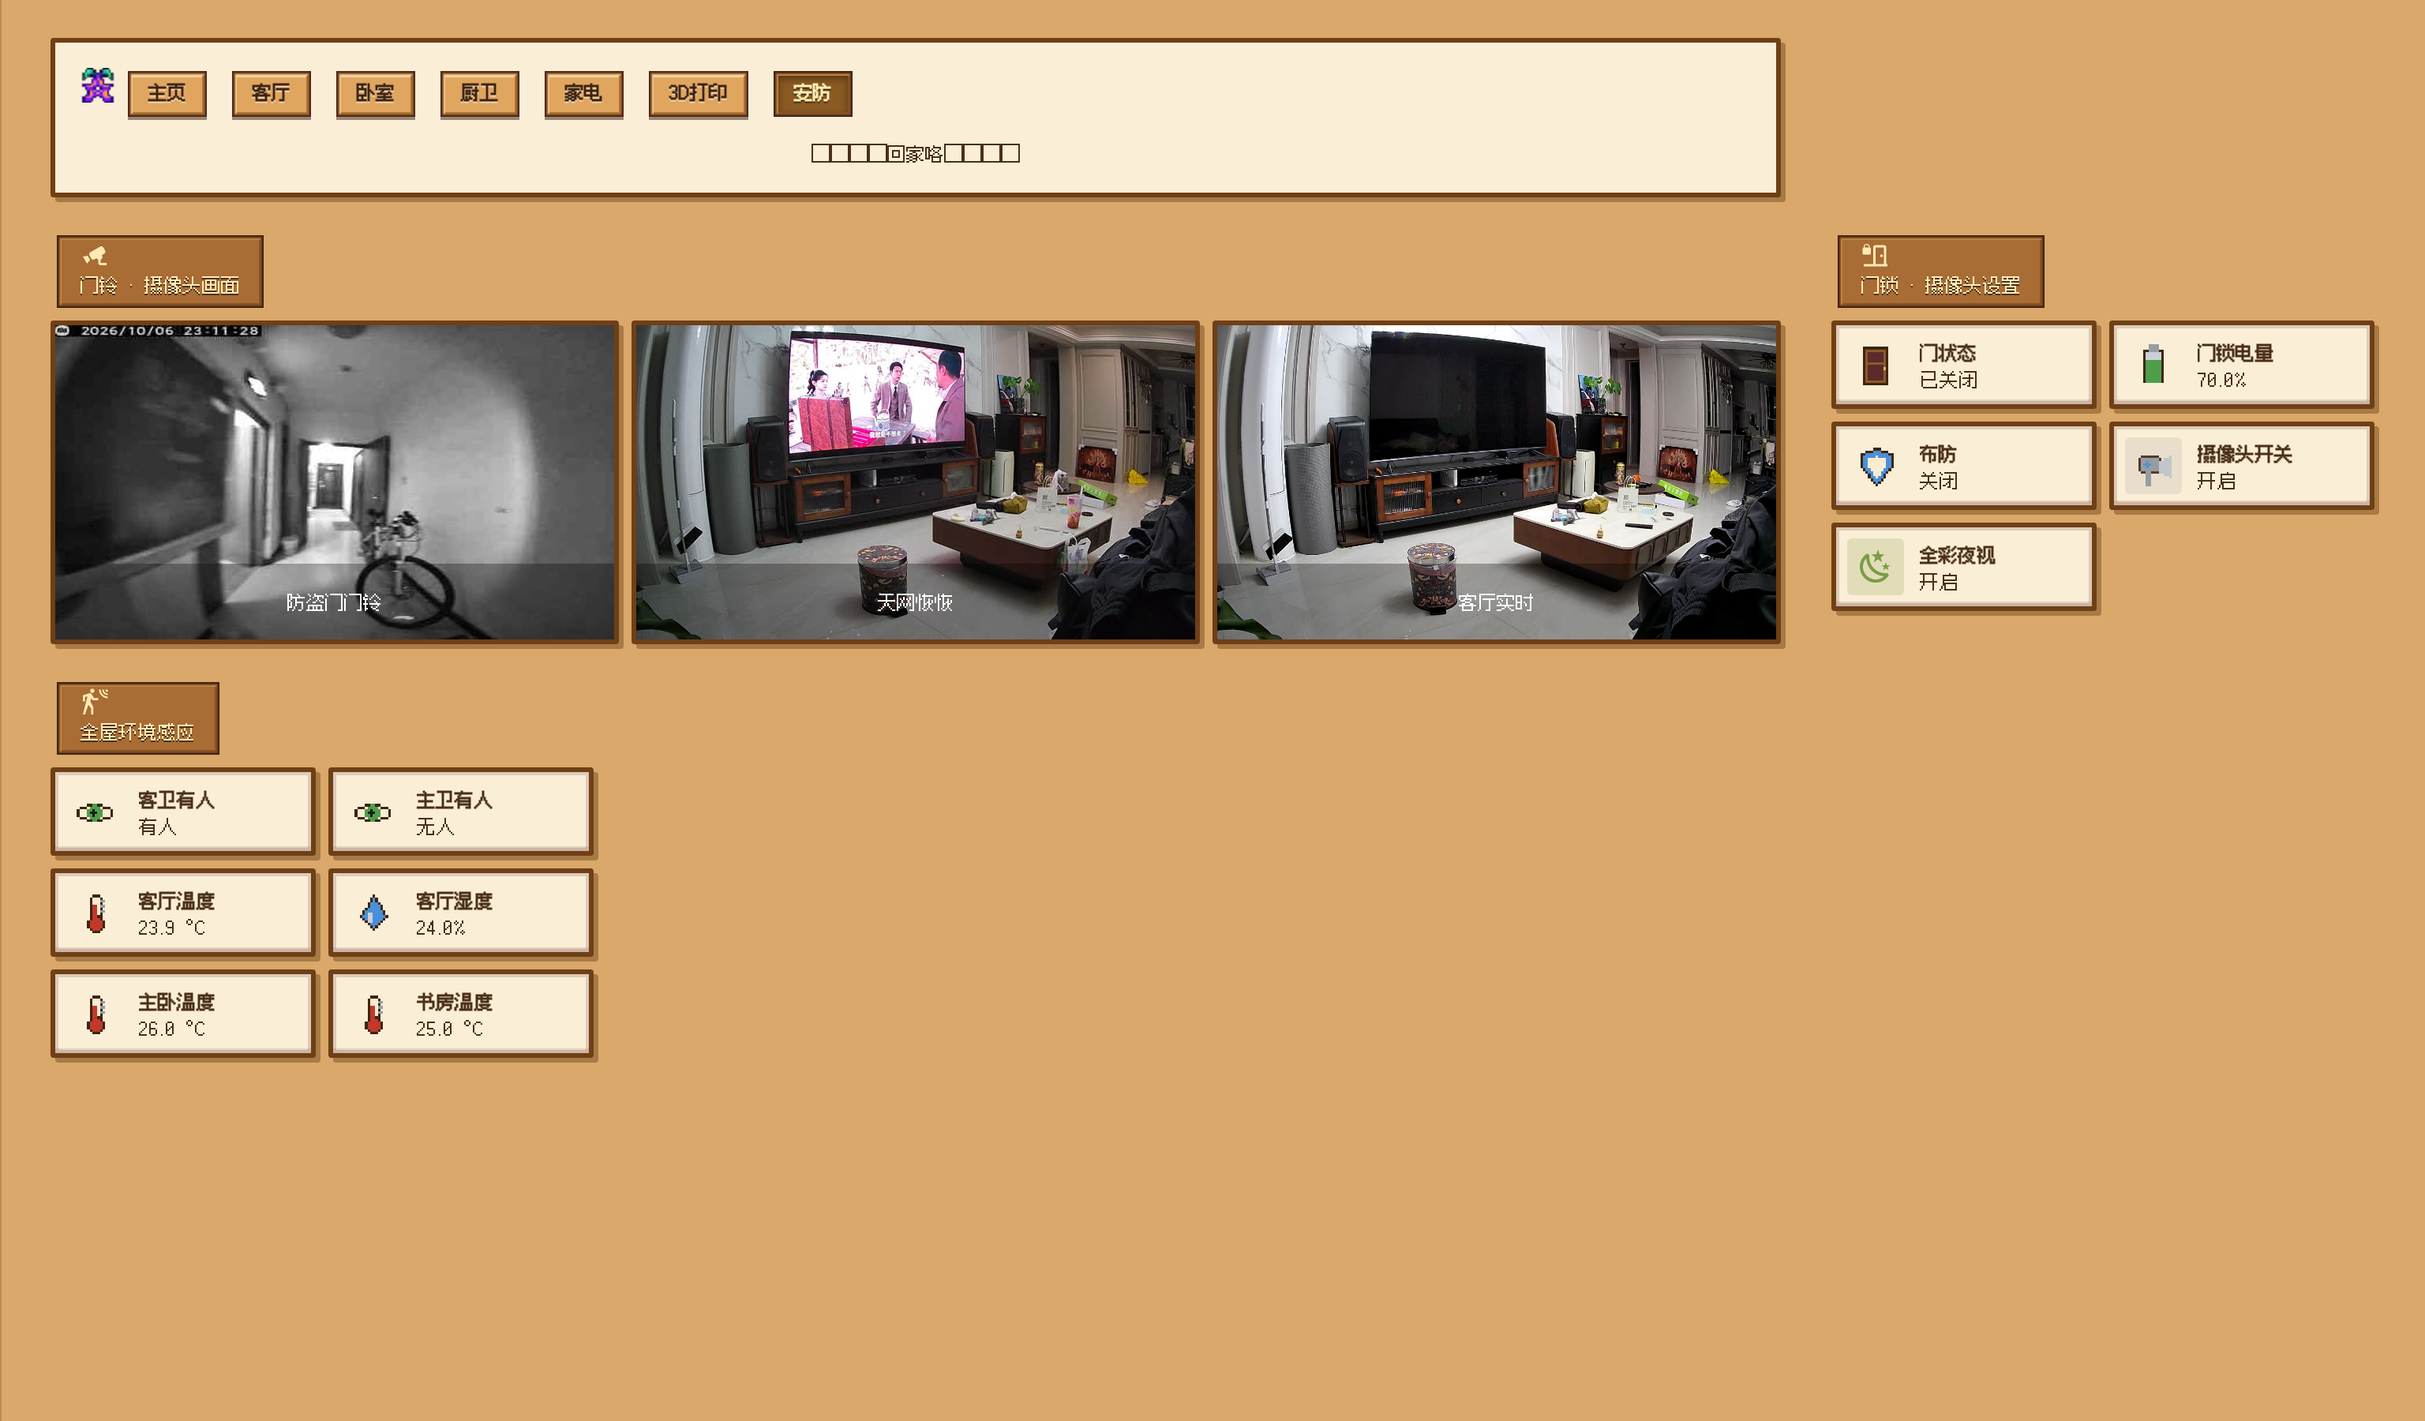
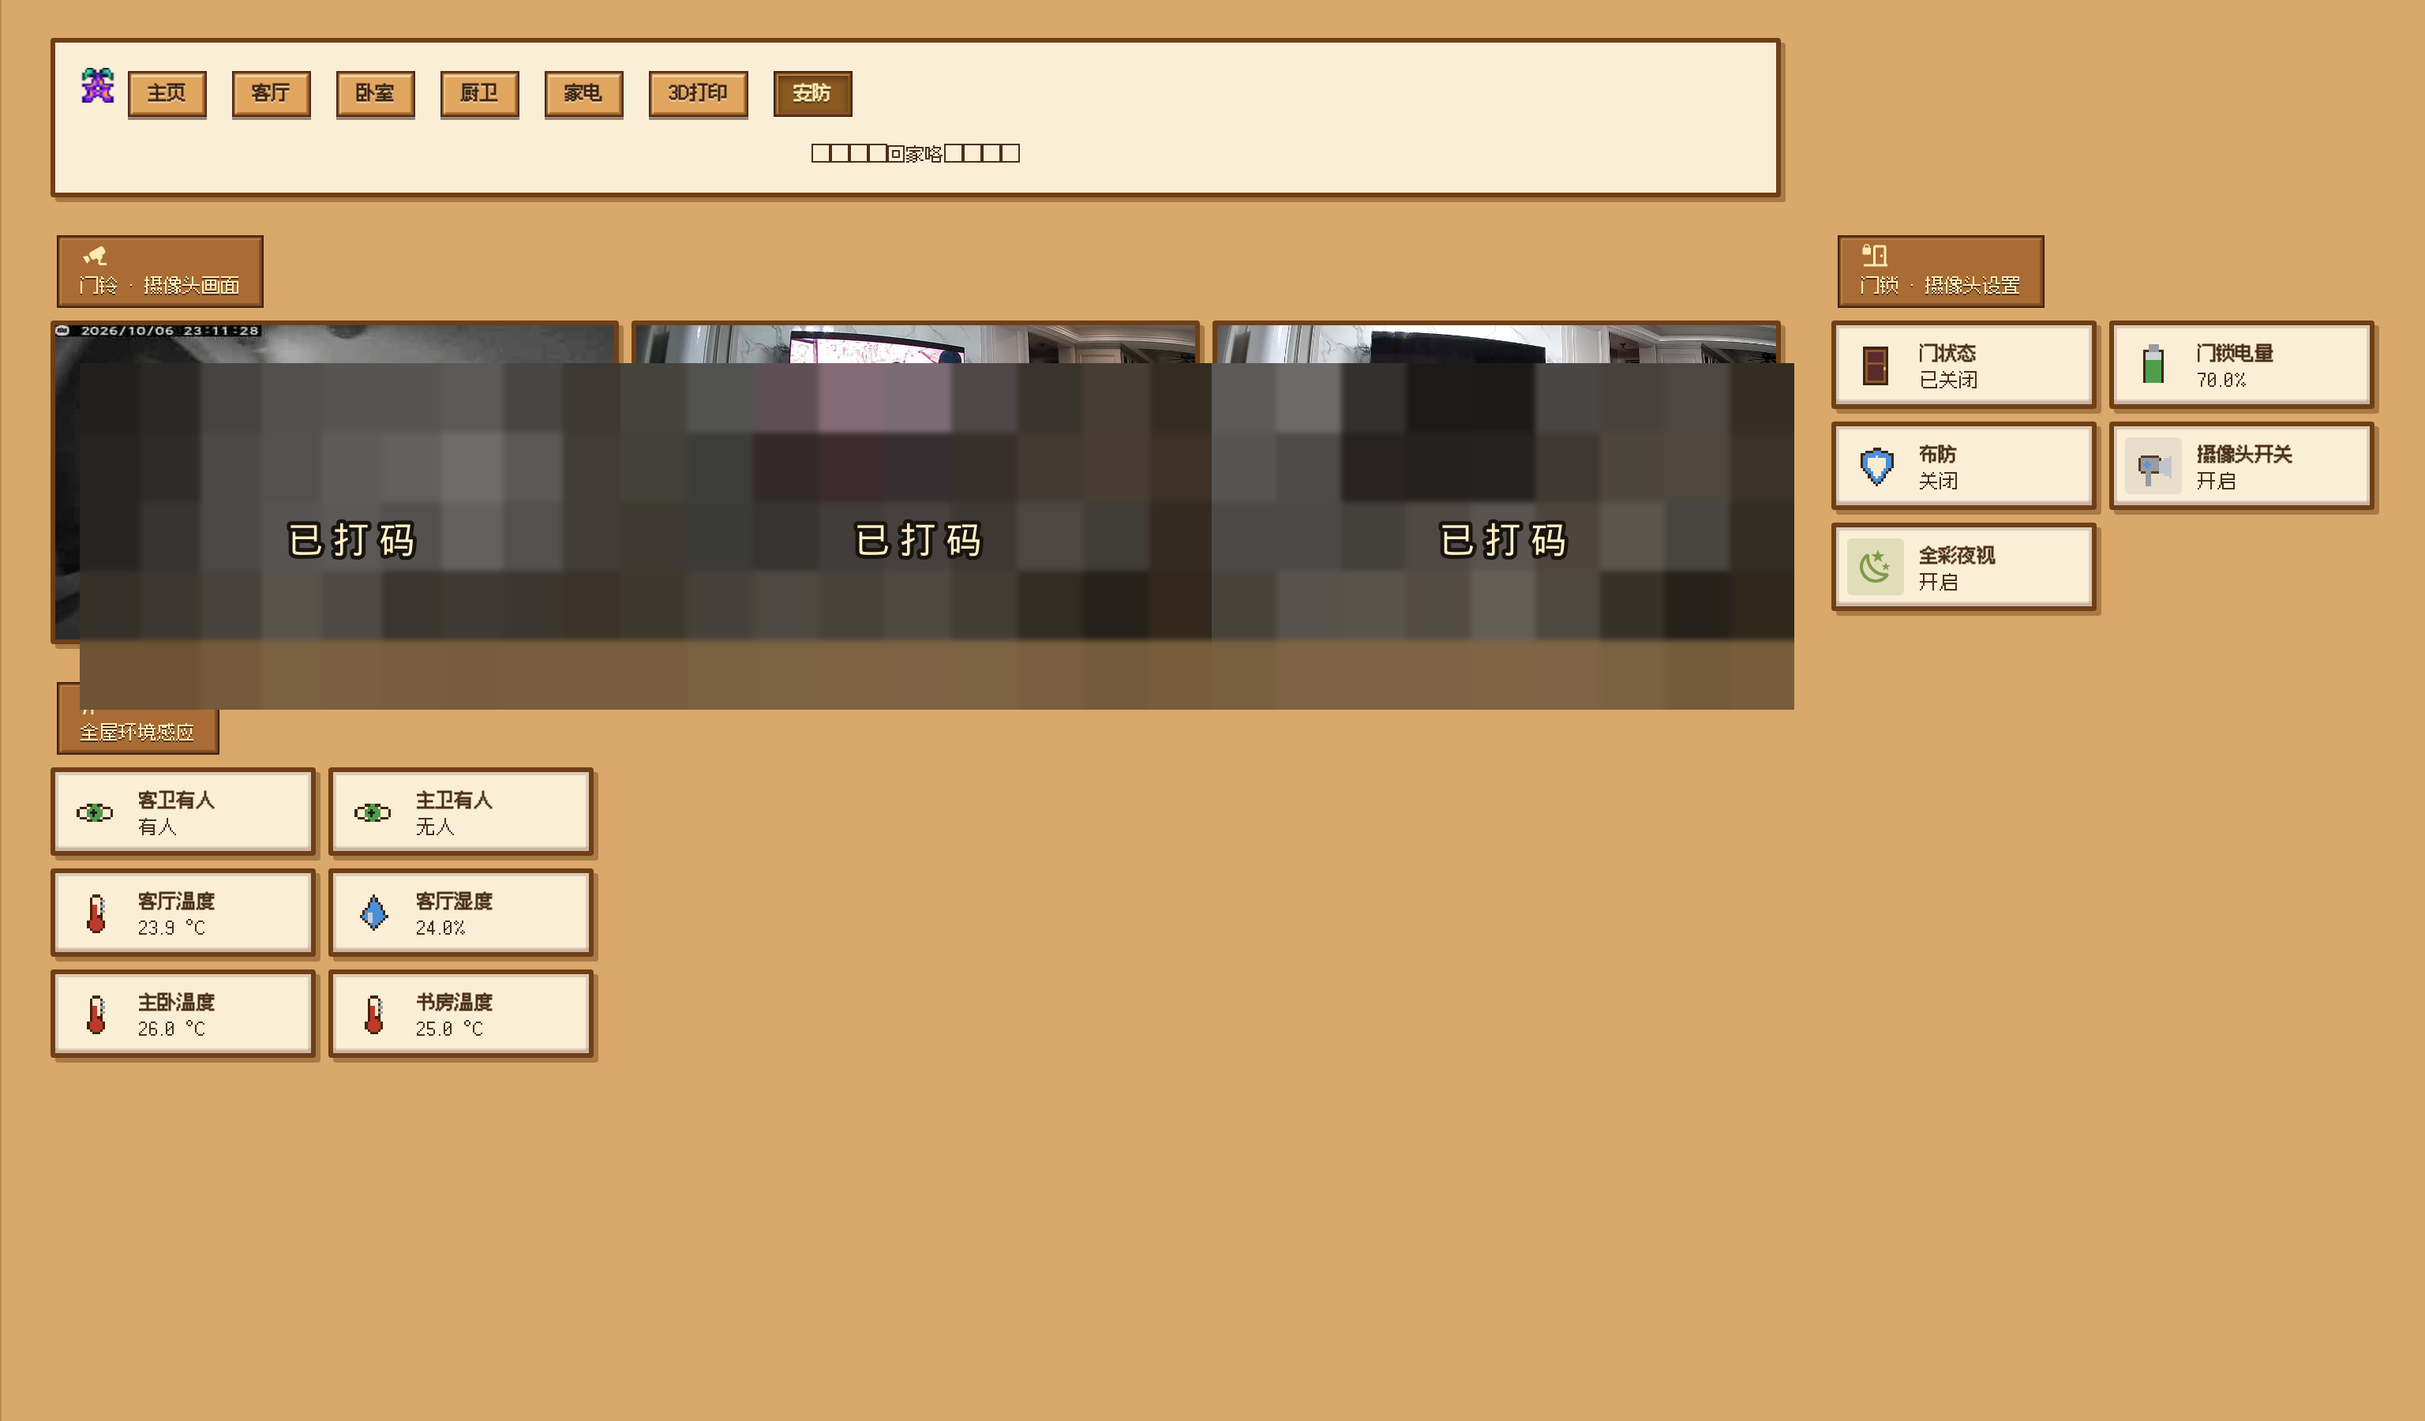
隐私打码：摄像头实时画面/门铃画面 + 扫地机户型图全部马赛克；脚本内设备序列号与默认用户名改占位符

Changed region(s): [[0.0312, 0.2489, 0.75, 0.4978]]

diff --git a/scripts/build_dashboard.py b/scripts/build_dashboard.py
@@ -69,7 +69,7 @@ DASH = {
             "sections": [
                 # 谷里今日（大时钟 + 时间/季节/天气 + 油价 + 运势 + 家里关键状态）
                 {"type": "grid", "column_span": 3, "cards": [
-                    {"type": "markdown", "content": "{% set m = now().month %}{% set se = 'hud_season_spring' if m in [3,4,5] else ('hud_season_summer' if m in [6,7,8] else ('hud_season_fall' if m in [9,10,11] else 'hud_season_winter')) %}{% set w = states('weather.forecast_jia') %}{% set ic = {'sunny':'hud_sun','clear-night':'hud_sun','partlycloudy':'hud_sun','cloudy':'hud_rain','rainy':'hud_rain','pouring':'hud_storm','lightning':'hud_storm','lightning-rainy':'hud_storm','snowy':'hud_snow','snowy-rainy':'hud_snow','fog':'hud_rain','hail':'hud_storm'} %}{% set zh = {'sunny':'晴天','clear-night':'晴夜','partlycloudy':'多云','cloudy':'阴天','rainy':'小雨','pouring':'大雨','lightning':'雷雨','lightning-rainy':'雷阵雨','snowy':'下雪','snowy-rainy':'雨夹雪','fog':'有雾','hail':'冰雹','windy':'大风','windy-variant':'大风','exceptional':'异常天气'} %}{% set luck = ((as_timestamp(now()) // 86400) | int) % 7 - 3 %}{% set lv = '非常幸运' if luck >= 3 else ('有点幸运' if luck >= 1 else ('平平常常' if luck == 0 else ('有点倒霉' if luck >= -2 else '非常倒霉'))) %}{% set sezh = {'hud_season_spring':'春','hud_season_summer':'夏','hud_season_fall':'秋','hud_season_winter':'冬'}[se] %}{% set wd = ['周一','周二','周三','周四','周五','周六','周日'][now().weekday()] %}{% set vsz = {'charging':'充电中','cleaning':'清扫中','docked':'已回充','idle':'待机','returning':'回程中','paused':'已暂停','error':'故障'} %}{% set psz = {'finish':'已完成','printing':'打印中','idle':'空闲','prepare':'准备中','failed':'失败','offline':'离线'} %}\n# {{ now().strftime('%H:%M') }}\n<img src='/local/stardew/img/hud_time.png'> {{ now().strftime('%m-%d') }} {{ wd }}　<img src='/local/stardew/img/{{ se }}.png?v=2'> {{ sezh }}季　<img src='/local/stardew/img/{{ ic.get(w, 'hud_sun') }}.png'> {{ zh.get(w, w) }}<br><img src='/local/stardew/img/hud_gold.png'> 95# <b>{{ states('sensor.he_bei_you_jie_95') }}</b>元　<img src='/local/stardew/img/hud_stardrop.png'> {{ lv }} {{ '★' * (luck + 3) }}<br><img src='/local/stardew/img/hud_health.png'> 门锁 {{ states('sensor.fang_dao_men_zhuang_tai') }} {{ states('sensor.loock_r2_559c_battery_level') | round | int }}% · 扫地机 {{ vsz.get(states('sensor.p20_ultra_plus_status'), states('sensor.p20_ultra_plus_status')) }} · 打印机 {{ psz.get(states('sensor.a1mini_0300aa5a0700264_print_status'), states('sensor.a1mini_0300aa5a0700264_print_status')) }}"},
+                    {"type": "markdown", "content": "{% set m = now().month %}{% set se = 'hud_season_spring' if m in [3,4,5] else ('hud_season_summer' if m in [6,7,8] else ('hud_season_fall' if m in [9,10,11] else 'hud_season_winter')) %}{% set w = states('weather.forecast_jia') %}{% set ic = {'sunny':'hud_sun','clear-night':'hud_sun','partlycloudy':'hud_sun','cloudy':'hud_rain','rainy':'hud_rain','pouring':'hud_storm','lightning':'hud_storm','lightning-rainy':'hud_storm','snowy':'hud_snow','snowy-rainy':'hud_snow','fog':'hud_rain','hail':'hud_storm'} %}{% set zh = {'sunny':'晴天','clear-night':'晴夜','partlycloudy':'多云','cloudy':'阴天','rainy':'小雨','pouring':'大雨','lightning':'雷雨','lightning-rainy':'雷阵雨','snowy':'下雪','snowy-rainy':'雨夹雪','fog':'有雾','hail':'冰雹','windy':'大风','windy-variant':'大风','exceptional':'异常天气'} %}{% set luck = ((as_timestamp(now()) // 86400) | int) % 7 - 3 %}{% set lv = '非常幸运' if luck >= 3 else ('有点幸运' if luck >= 1 else ('平平常常' if luck == 0 else ('有点倒霉' if luck >= -2 else '非常倒霉'))) %}{% set sezh = {'hud_season_spring':'春','hud_season_summer':'夏','hud_season_fall':'秋','hud_season_winter':'冬'}[se] %}{% set wd = ['周一','周二','周三','周四','周五','周六','周日'][now().weekday()] %}{% set vsz = {'charging':'充电中','cleaning':'清扫中','docked':'已回充','idle':'待机','returning':'回程中','paused':'已暂停','error':'故障'} %}{% set psz = {'finish':'已完成','printing':'打印中','idle':'空闲','prepare':'准备中','failed':'失败','offline':'离线'} %}\n# {{ now().strftime('%H:%M') }}\n<img src='/local/stardew/img/hud_time.png'> {{ now().strftime('%m-%d') }} {{ wd }}　<img src='/local/stardew/img/{{ se }}.png?v=2'> {{ sezh }}季　<img src='/local/stardew/img/{{ ic.get(w, 'hud_sun') }}.png'> {{ zh.get(w, w) }}<br><img src='/local/stardew/img/hud_gold.png'> 95# <b>{{ states('sensor.he_bei_you_jie_95') }}</b>元　<img src='/local/stardew/img/hud_stardrop.png'> {{ lv }} {{ '★' * (luck + 3) }}<br><img src='/local/stardew/img/hud_health.png'> 门锁 {{ states('sensor.fang_dao_men_zhuang_tai') }} {{ states('sensor.loock_r2_559c_battery_level') | round | int }}% · 扫地机 {{ vsz.get(states('sensor.p20_ultra_plus_status'), states('sensor.p20_ultra_plus_status')) }} · 打印机 {{ psz.get(states('sensor.a1mini_${PRINTER_SERIAL}_print_status'), states('sensor.a1mini_${PRINTER_SERIAL}_print_status')) }}"},
                     grid([
                         tile("sensor.xiaomi_rrbr00_c147_temperature", "客厅", "mdi:thermometer", color="orange"),
                         tile("sensor.xiaomi_rrbr00_c147_relative_humidity", "客厅湿度", "mdi:water-percent", color="blue"),
@@ -146,14 +146,14 @@ DASH = {
                         tile("sensor.mei_de_ke_ai_duo_sheng_yu_shi_jian", "洗完还需", "mdi:timer-sand"),
                         tile("sensor.p20_ultra_plus_status", "扫地机", "mdi:robot-vacuum", color="teal"),
                         tile("sensor.p20_ultra_plus_battery", "电量", "mdi:battery"),
-                        tile("sensor.a1mini_0300aa5a0700264_print_status", "打印机", "mdi:printer-3d", color="teal"),
-                        tile("sensor.a1mini_0300aa5a0700264_print_progress", "打印进度", "mdi:percent"),
+                        tile("sensor.a1mini_${PRINTER_SERIAL}_print_status", "打印机", "mdi:printer-3d", color="teal"),
+                        tile("sensor.a1mini_${PRINTER_SERIAL}_print_progress", "打印进度", "mdi:percent"),
                         tile("sensor.dian_re_shui_qi_dang_qian_wen_du", "热水器", "mdi:water-boiler", color="red"),
                         tile("sensor.bing_xiang_leng_cang_shi_xian_shi_wen_du_degc", "冰箱冷藏", "mdi:fridge-outline", color="blue"),
                         tile("sensor.bing_xiang_leng_dong_shi_xian_shi_wen_du_degc", "冰箱冷冻", "mdi:snowflake", color="blue"),
                         tile("sensor.jing_shui_ji_chu_shui_tds", "净水 TDS", "mdi:water-check", color="blue"),
                         tile("sensor.jing_shui_ji_rosheng_yu_bai_fen_bi", "RO 剩余", "mdi:filter"),
-                        tile("binary_sensor.a1mini_0300aa5a0700264_hms_errors", "报警", "mdi:alert-circle"),
+                        tile("binary_sensor.a1mini_${PRINTER_SERIAL}_hms_errors", "报警", "mdi:alert-circle"),
                     ], columns=3)]},
                 # 安防
                 {"type": "grid", "cards": [
@@ -356,30 +356,30 @@ DASH = {
             "title": "3D打印", "path": "printer", "icon": "mdi:printer-3d", "type": "sections",
             "sections": [
                 {"type": "grid", "cards": [
-                    {"type": "picture-entity", "entity": "camera.a1mini_0300aa5a0700264_camera",
+                    {"type": "picture-entity", "entity": "camera.a1mini_${PRINTER_SERIAL}_camera",
                      "name": "打印机画面", "camera_view": "auto", "show_state": False},
-                    grid([tile("sensor.a1mini_0300aa5a0700264_print_status", "状态", "mdi:printer-3d", color="teal"),
-                          tile("sensor.a1mini_0300aa5a0700264_print_progress", "进度", "mdi:percent"),
-                          tile("sensor.a1mini_0300aa5a0700264_remaining_time", "剩余时间", "mdi:timer-sand"),
-                          tile("sensor.a1mini_0300aa5a0700264_current_layer", "当前层", "mdi:layers"),
-                          tile("sensor.a1mini_0300aa5a0700264_nozzle_temperature", "喷嘴温度", "mdi:thermometer", color="red"),
-                          tile("sensor.a1mini_0300aa5a0700264_bed_temperature", "热床温度", "mdi:radiator", color="orange")], columns=3),
+                    grid([tile("sensor.a1mini_${PRINTER_SERIAL}_print_status", "状态", "mdi:printer-3d", color="teal"),
+                          tile("sensor.a1mini_${PRINTER_SERIAL}_print_progress", "进度", "mdi:percent"),
+                          tile("sensor.a1mini_${PRINTER_SERIAL}_remaining_time", "剩余时间", "mdi:timer-sand"),
+                          tile("sensor.a1mini_${PRINTER_SERIAL}_current_layer", "当前层", "mdi:layers"),
+                          tile("sensor.a1mini_${PRINTER_SERIAL}_nozzle_temperature", "喷嘴温度", "mdi:thermometer", color="red"),
+                          tile("sensor.a1mini_${PRINTER_SERIAL}_bed_temperature", "热床温度", "mdi:radiator", color="orange")], columns=3),
                 ]},
                 {"type": "grid", "cards": [
-                    {"type": "tile", "entity": "light.a1mini_0300aa5a0700264_chamber_light", "name": "仓灯",
+                    {"type": "tile", "entity": "light.a1mini_${PRINTER_SERIAL}_chamber_light", "name": "仓灯",
                      "icon": "mdi:lightbulb", "color": "amber"},
-                    {"type": "tile", "entity": "fan.a1mini_0300aa5a0700264_cooling_fan", "name": "冷却风扇",
+                    {"type": "tile", "entity": "fan.a1mini_${PRINTER_SERIAL}_cooling_fan", "name": "冷却风扇",
                      "icon": "mdi:fan"},
-                    grid([tile("sensor.a1mini_0300aa5a0700264_ams_1_tray_1", "料盘1", "mdi:palette"),
-                          tile("sensor.a1mini_0300aa5a0700264_ams_1_tray_2", "料盘2", "mdi:palette"),
-                          tile("sensor.a1mini_0300aa5a0700264_ams_1_tray_3", "料盘3", "mdi:palette"),
-                          tile("sensor.a1mini_0300aa5a0700264_ams_1_tray_4", "料盘4", "mdi:palette")], columns=4),
+                    grid([tile("sensor.a1mini_${PRINTER_SERIAL}_ams_1_tray_1", "料盘1", "mdi:palette"),
+                          tile("sensor.a1mini_${PRINTER_SERIAL}_ams_1_tray_2", "料盘2", "mdi:palette"),
+                          tile("sensor.a1mini_${PRINTER_SERIAL}_ams_1_tray_3", "料盘3", "mdi:palette"),
+                          tile("sensor.a1mini_${PRINTER_SERIAL}_ams_1_tray_4", "料盘4", "mdi:palette")], columns=4),
                 ]},
                 {"type": "grid", "cards": [grid([
-                    tile("sensor.a1mini_0300aa5a0700264_wi_fi_signal", "Wi-Fi", "mdi:wifi"),
-                    tile("sensor.a1mini_0300aa5a0700264_current_stage", "当前阶段", "mdi:state-machine"),
-                    tile("sensor.a1mini_0300aa5a0700264_speed_profile", "速度模式", "mdi:speedometer"),
-                    tile("sensor.a1mini_0300aa5a0700264_print_weight", "耗材重量", "mdi:weight-gram"),
+                    tile("sensor.a1mini_${PRINTER_SERIAL}_wi_fi_signal", "Wi-Fi", "mdi:wifi"),
+                    tile("sensor.a1mini_${PRINTER_SERIAL}_current_stage", "当前阶段", "mdi:state-machine"),
+                    tile("sensor.a1mini_${PRINTER_SERIAL}_speed_profile", "速度模式", "mdi:speedometer"),
+                    tile("sensor.a1mini_${PRINTER_SERIAL}_print_weight", "耗材重量", "mdi:weight-gram"),
                     tile("sensor.sixwgh_v8icwf_52c7_electric_power", "插座功率", "mdi:flash"),
                     tile("switch.sixwgh_v8icwf_52c7_switch", "打印机插座", "mdi:power-socket-cn"),
                 ], columns=3)]},

diff --git a/scripts/vm_snap.py b/scripts/vm_snap.py
@@ -10,7 +10,7 @@
 """
 import base64, json, os, sys, time, urllib.request, urllib.error
 
-VM = os.environ.get("VM_NAME", "htnouvvf")          # libvirt 域名（随机串），/domain/list 里的 name
+VM = os.environ.get("VM_NAME", "${VM_NAME}")          # libvirt 域名（随机串），/domain/list 里的 name
 HA = os.environ.get("HA_BASE", "http://${HA_HOST}")
 BASE = "http://localhost:5666/vm/api/v1"
 S = os.path.expanduser("~/.config/trim-cli/secure")

diff --git a/scripts/ha_api.py b/scripts/ha_api.py
@@ -17,7 +17,7 @@ import urllib.parse
 import urllib.request
 
 BASE = os.environ.get("HA_BASE", "http://${HA_HOST}")  # HA 实际在 80 端口
-USER = os.environ.get("HA_USER", "zhangke")
+USER = os.environ.get("HA_USER", "${HA_USER}")  # 别硬编码真名
 PWD = os.environ.get("HA_PWD", "")   # 必须通过环境变量/creds.json 提供，别硬编码
 CACHE = os.path.expanduser("~/.config/ha/creds.json")
 CLIENT_ID = BASE + "/"

diff --git a/README.md b/README.md
@@ -8,6 +8,10 @@
 
 ---
 
+## 隐私说明
+
+预览截图里的**摄像头实时画面**与**扫地机户型图**已做打码处理（马赛克 + 已打码水印），仓库内所有账号、密码、token、内网地址、设备序列号均为 `${...}` 占位符，需自行填入自己的环境。
+
 ## ✨ 效果亮点
 
 | 功能 | 说明 |
